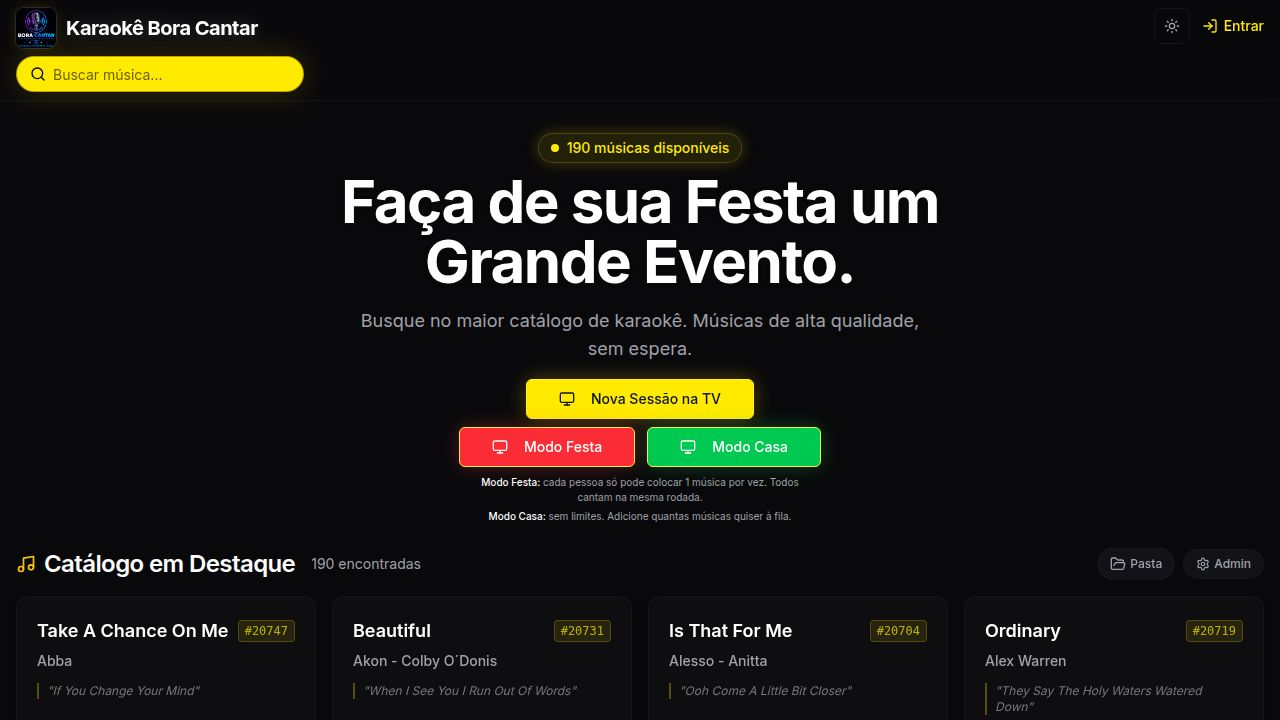
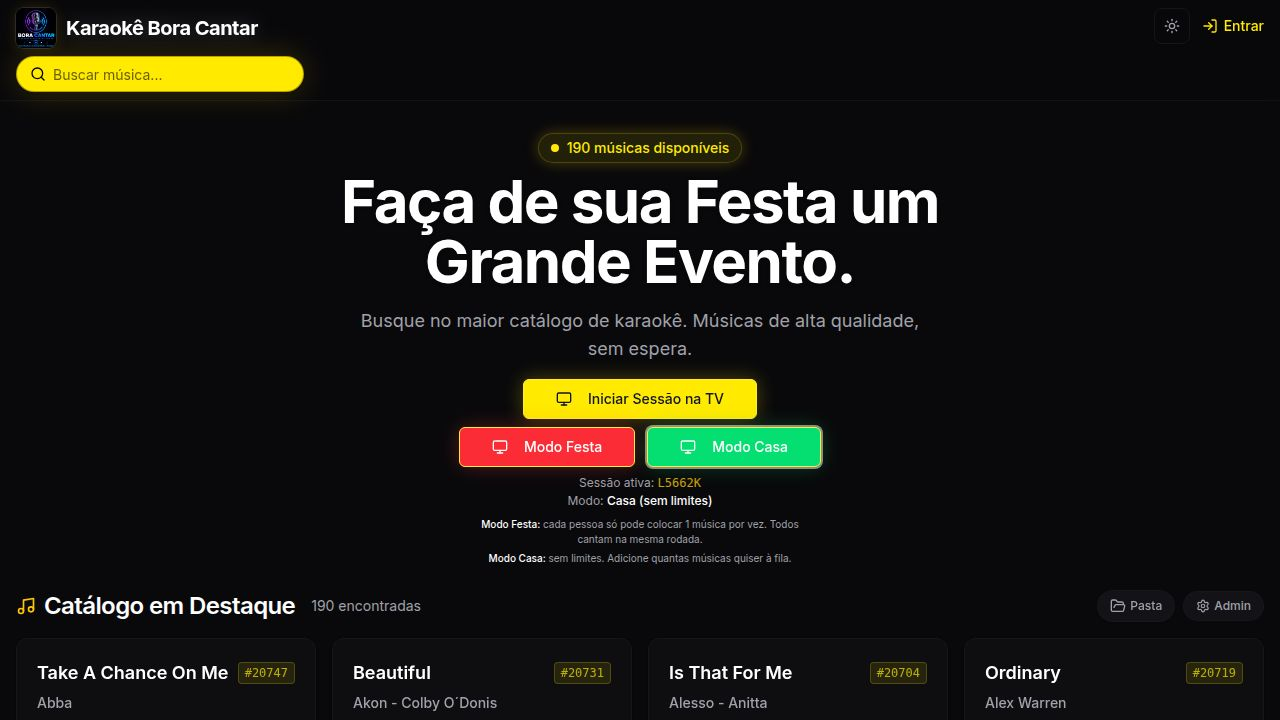
Stabilize displayed singer and song info during transitions
Freeze the next song's details (singer, title, artist) in a ref when a transition begins, preventing polling from updating the display mid-transition.

Replit-Commit-Author: Agent
Replit-Commit-Session-Id: e0b9e7b8-9c89-4981-a677-37e2313ad79d
Replit-Commit-Checkpoint-Type: full_checkpoint
Replit-Commit-Event-Id: f7ae7811-5f3e-4f71-a640-599105cba1e5
Replit-Commit-Screenshot-Url: https://storage.googleapis.com/screenshot-production-us-central1/de3e7edc-04e4-467b-baa6-59e45426ee6b/e0b9e7b8-9c89-4981-a677-37e2313ad79d/3d14NcI
Replit-Helium-Checkpoint-Created: true

diff --git a/artifacts/karaoke/src/pages/tv.tsx b/artifacts/karaoke/src/pages/tv.tsx
@@ -217,6 +217,14 @@ export default function TVPage() {
   const [isTransitioning, setIsTransitioning] = useState(false);
   const [transitionCountdown, setTransitionCountdown] = useState(10);
 
+  // Frozen song data for transition screen (so polling doesn't swap names mid-transition)
+  interface NextSongSnapshot {
+    singerName: string;
+    musica: string;
+    artista: string;
+  }
+  const nextSongRef = useRef<NextSongSnapshot | null>(null);
+
   const handleNext = useCallback(async () => {
     // TV acts as the owner of the current song so it can always advance
     const ownerDeviceId = session?.currentSongAddedBy ?? "anon";
@@ -235,6 +243,12 @@ export default function TVPage() {
       setShowScore(false);
       // Smooth transition: show "Next Song" screen for 10s with countdown before starting
       if (data.next) {
+        // Freeze the data from the API response so polling doesn't swap names mid-transition
+        nextSongRef.current = {
+          singerName: data.next.singerName,
+          musica: data.next.musica,
+          artista: data.next.artista,
+        };
         setIsTransitioning(true);
         setTransitionCountdown(10);
         const interval = setInterval(() => {
@@ -249,6 +263,7 @@ export default function TVPage() {
         setTimeout(() => {
           clearInterval(interval);
           setIsTransitioning(false);
+          nextSongRef.current = null;
           setVideoKey((k) => k + 1);
         }, 10000);
       } else {
@@ -363,15 +378,15 @@ export default function TVPage() {
 
       {/* Video Player */}
       <div className="flex-1 flex items-center justify-center bg-black min-h-0 relative">
-        {isTransitioning && session?.queue?.[0] ? (
+        {isTransitioning && nextSongRef.current ? (
           <div className="absolute inset-0 z-35 flex flex-col items-center justify-center bg-black/90 backdrop-blur-md text-white animate-in fade-in duration-500">
             <div className="absolute top-0 left-1/4 w-1/2 h-64 bg-primary/30 blur-[120px] rounded-full pointer-events-none -translate-y-1/2" />
             <div className="flex items-center gap-2 mb-3 bg-primary/20 border border-primary/30 rounded-full px-4 py-1.5">
               <UserRound className="h-4 w-4 text-primary" />
-              <span className="font-bold text-lg text-white">{session.queue[0].singerName}</span>
+              <span className="font-bold text-lg text-white">{nextSongRef.current.singerName}</span>
             </div>
-            <h2 className="text-2xl font-bold mb-1 line-clamp-1 text-center">{session.queue[0].musica}</h2>
-            <p className="text-muted-foreground text-sm mb-6">{session.queue[0].artista}</p>
+            <h2 className="text-2xl font-bold mb-1 line-clamp-1 text-center">{nextSongRef.current.musica}</h2>
+            <p className="text-muted-foreground text-sm mb-6">{nextSongRef.current.artista}</p>
             <div className="flex items-center gap-2">
               <span className="w-3 h-3 rounded-full bg-primary animate-bounce" style={{ animationDelay: "0ms" }} />
               <span className="w-3 h-3 rounded-full bg-primary animate-bounce" style={{ animationDelay: "150ms" }} />